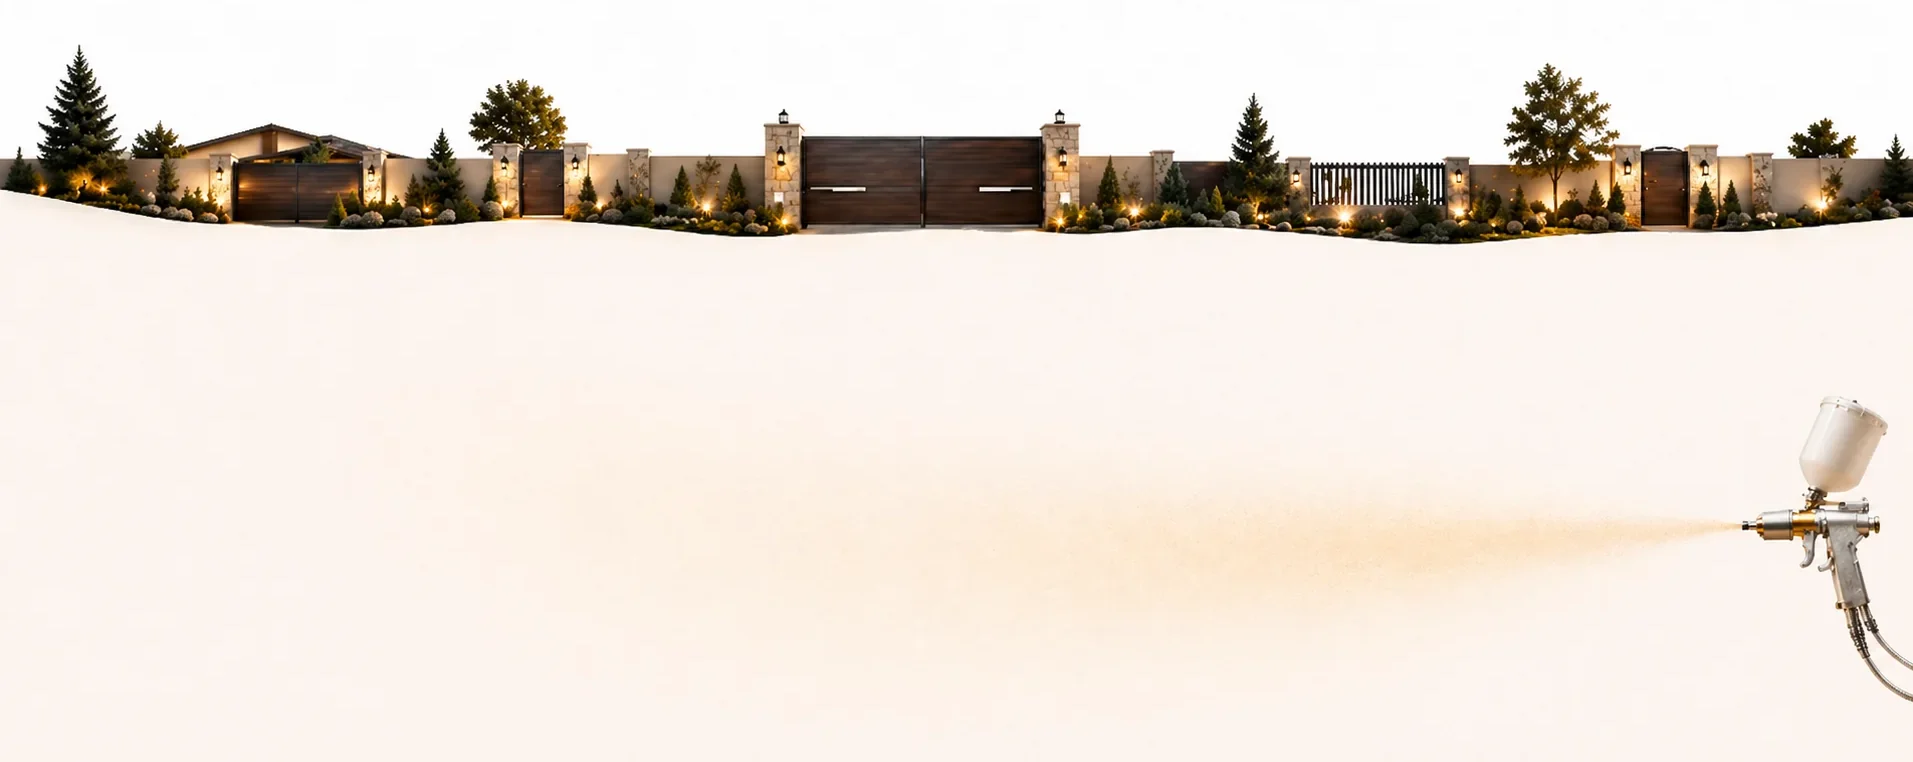
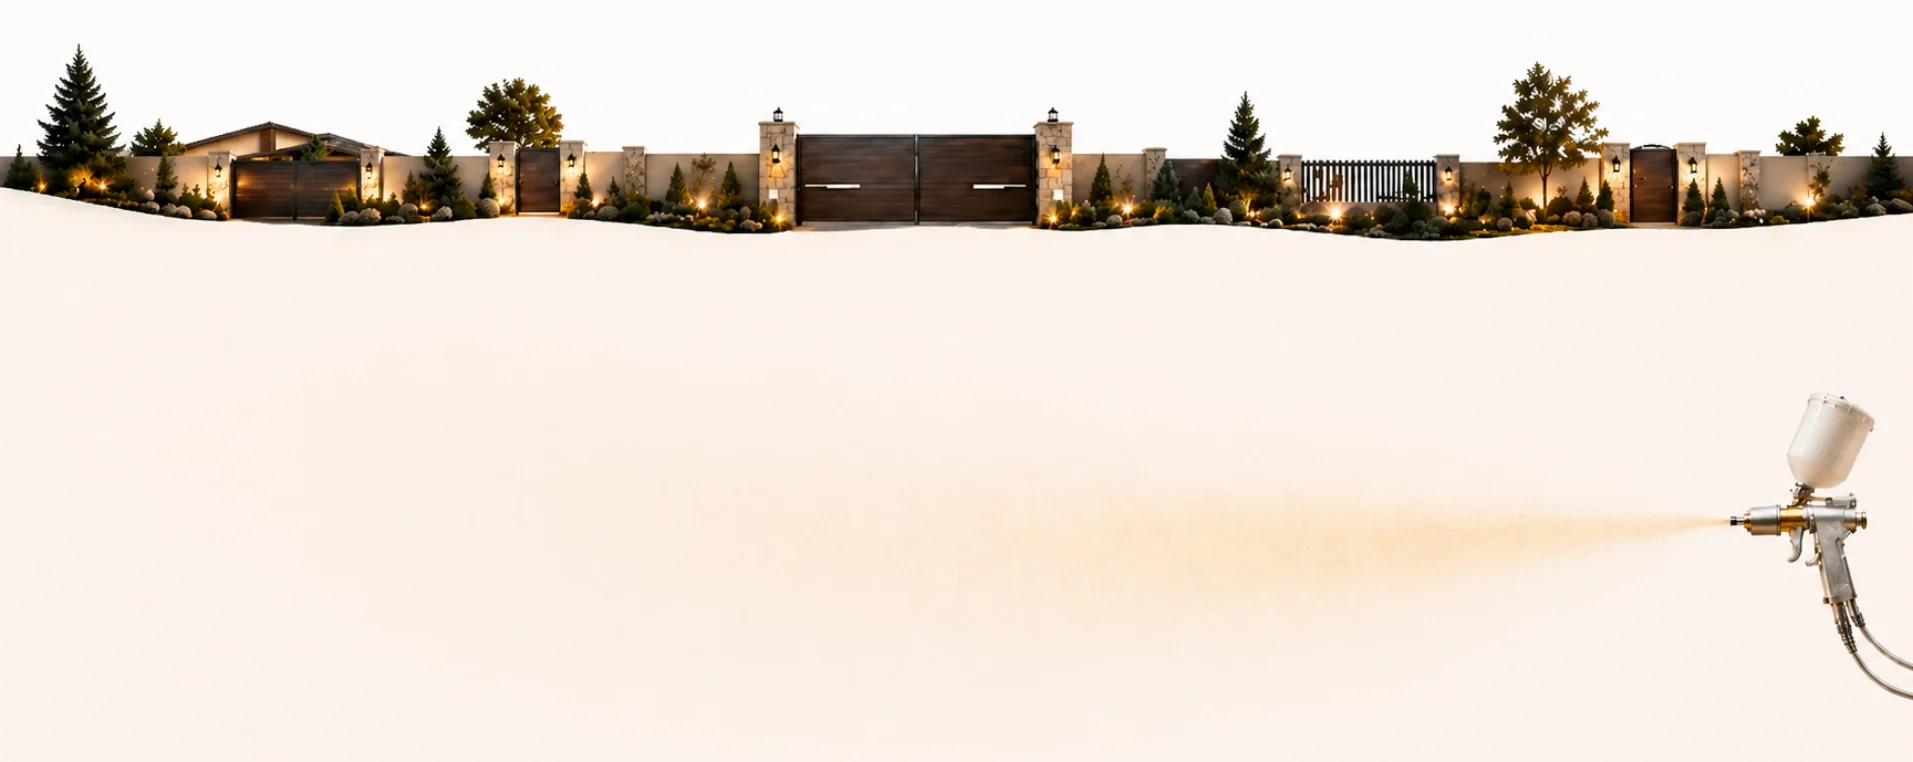
Optimize footer image and add responsive checks

Changed region(s): [[0.0, 0.0604, 1.0, 0.332], [0.8944, 0.5131, 1.0, 0.9357]]

diff --git a/tests/responsive/layout-smoke.spec.js b/tests/responsive/layout-smoke.spec.js
@@ -1,0 +1,112 @@
+const { test, expect } = require('@playwright/test');
+
+const pages = [
+    { name: 'home', path: '/' },
+    { name: 'services', path: '/pages/services.html' },
+    { name: 'powder-coating', path: '/pages/powder-coating.html' },
+    { name: 'gallery', path: '/pages/gallery.html' },
+    { name: 'contacts', path: '/pages/contacts.html' }
+];
+
+function slugifyProjectName(name) {
+    return String(name || 'project')
+        .toLowerCase()
+        .replace(/[^a-z0-9]+/g, '-')
+        .replace(/^-+|-+$/g, '');
+}
+
+async function collectLayoutMetrics(page) {
+    return page.evaluate(() => {
+        const html = document.documentElement;
+        const body = document.body;
+
+        const horizontalOverflow = Math.max(
+            0,
+            Math.max(html.scrollWidth, body ? body.scrollWidth : 0) - window.innerWidth
+        );
+
+        const fixedSelectors = [
+            '.hero-copy h1',
+            '.hero-copy__actions',
+            '.hero-copy__features',
+            '.hero-scene__nav',
+            '.panel-scene__items',
+            '.internal-hero-copy h1',
+            '.internal-hero-copy__lead'
+        ];
+
+        const overflowingSelectors = fixedSelectors.reduce((accumulator, selector) => {
+            const element = document.querySelector(selector);
+            if (!element) return accumulator;
+
+            const style = window.getComputedStyle(element);
+            const horizontalDiff = element.scrollWidth - element.clientWidth;
+            const verticalDiff = element.scrollHeight - element.clientHeight;
+
+            if (
+                horizontalDiff > 2
+                && style.overflowX !== 'visible'
+                && style.whiteSpace !== 'normal'
+            ) {
+                accumulator.push({
+                    selector,
+                    axis: 'x',
+                    diff: horizontalDiff
+                });
+            }
+
+            if (
+                verticalDiff > 6
+                && style.overflowY !== 'visible'
+                && element.clientHeight > 0
+            ) {
+                accumulator.push({
+                    selector,
+                    axis: 'y',
+                    diff: verticalDiff
+                });
+            }
+
+            return accumulator;
+        }, []);
+
+        const heroStage = document.querySelector('.hero-stage');
+        const heroPicture = document.querySelector('.hero-stage__picture');
+
+        let heroBottomGap = null;
+        if (heroStage && heroPicture) {
+            const stageRect = heroStage.getBoundingClientRect();
+            const pictureRect = heroPicture.getBoundingClientRect();
+            heroBottomGap = Math.round(stageRect.bottom - pictureRect.bottom);
+        }
+
+        return {
+            horizontalOverflow,
+            overflowingSelectors,
+            heroBottomGap
+        };
+    });
+}
+
+test.describe('Responsive layout smoke', () => {
+    for (const targetPage of pages) {
+        test(`${targetPage.name} stays stable across key breakpoints`, async ({ page }, testInfo) => {
+            await page.goto(targetPage.path, { waitUntil: 'networkidle' });
+
+            await expect(page.locator('body')).toBeVisible();
+            await page.screenshot({
+                path: testInfo.outputPath(`${slugifyProjectName(testInfo.project.name)}-${targetPage.name}.png`),
+                fullPage: true
+            });
+
+            const metrics = await collectLayoutMetrics(page);
+
+            expect(metrics.horizontalOverflow, `Horizontal overflow detected on ${targetPage.name}`).toBeLessThanOrEqual(2);
+            expect(metrics.overflowingSelectors, `Hidden overflow detected on ${targetPage.name}`).toEqual([]);
+
+            if (targetPage.name === 'home' && metrics.heroBottomGap != null) {
+                expect(Math.abs(metrics.heroBottomGap), 'Hero picture no longer aligns with hero stage bottom').toBeLessThanOrEqual(4);
+            }
+        });
+    }
+});

diff --git a/playwright.config.js b/playwright.config.js
@@ -1,0 +1,62 @@
+const { defineConfig, devices } = require('@playwright/test');
+
+module.exports = defineConfig({
+    testDir: './tests/responsive',
+    timeout: 45_000,
+    fullyParallel: true,
+    reporter: [
+        ['list'],
+        ['html', { open: 'never' }]
+    ],
+    use: {
+        baseURL: 'http://127.0.0.1:4173',
+        trace: 'retain-on-failure',
+        screenshot: 'only-on-failure',
+        video: 'retain-on-failure'
+    },
+    webServer: {
+        command: 'npm start',
+        url: 'http://127.0.0.1:4173/api/health',
+        reuseExistingServer: true,
+        timeout: 120_000
+    },
+    projects: [
+        {
+            name: 'desktop-wide',
+            use: {
+                browserName: 'chromium',
+                ...devices['Desktop Chrome'],
+                viewport: { width: 1440, height: 900 }
+            }
+        },
+        {
+            name: 'desktop-narrow-980',
+            use: {
+                browserName: 'chromium',
+                ...devices['Desktop Chrome'],
+                viewport: { width: 980, height: 740 }
+            }
+        },
+        {
+            name: 'tablet-ipad',
+            use: {
+                browserName: 'chromium',
+                ...devices['iPad Pro 11']
+            }
+        },
+        {
+            name: 'phone-iphone-13',
+            use: {
+                browserName: 'chromium',
+                ...devices['iPhone 13']
+            }
+        },
+        {
+            name: 'phone-landscape',
+            use: {
+                browserName: 'chromium',
+                ...devices['iPhone 13 landscape']
+            }
+        }
+    ]
+});

diff --git a/pages/payment-documents.html b/pages/payment-documents.html
@@ -92,8 +92,8 @@
 <link rel="stylesheet" href="../assets/css/header.css?v=20260430-header-nearsquare-2">
     <link rel="stylesheet" href="../assets/css/hero-inner.css?v=20260430-hero-inner-nearsquare-2">
 <link rel="stylesheet" href="../assets/css/internal-pages.css?v=20260430-internal-neutralfallback-1">
-    <link rel="preload" as="style" href="../assets/css/footer.css?v=20260430-footer-desktopsite-gap-1" onload="this.onload=null;this.rel='stylesheet'">
-    <noscript><link rel="stylesheet" href="../assets/css/footer.css?v=20260430-footer-desktopsite-gap-1"></noscript>
+    <link rel="preload" as="style" href="../assets/css/footer.css?v=20260506-footer-photo-2" onload="this.onload=null;this.rel='stylesheet'">
+    <noscript><link rel="stylesheet" href="../assets/css/footer.css?v=20260506-footer-photo-2"></noscript>
 <link rel="preload" as="style" href="../assets/css/fontawesome.css?v=20260421-fa-4" onload="this.onload=null;this.rel='stylesheet'">
 <noscript><link rel="stylesheet" href="../assets/css/fontawesome.css?v=20260421-fa-4"></noscript>
     <link rel="stylesheet" href="../assets/css/pages/payment-documents.css?v=20260426-payment-theme-51">

diff --git a/pages/powder-coating.html b/pages/powder-coating.html
@@ -94,8 +94,8 @@
 <link rel="stylesheet" href="../assets/css/header.css?v=20260430-header-nearsquare-2">
     <link rel="stylesheet" href="../assets/css/hero-inner.css?v=20260430-hero-inner-nearsquare-2">
 <link rel="stylesheet" href="../assets/css/internal-pages.css?v=20260430-internal-neutralfallback-1">
-    <link rel="preload" as="style" href="../assets/css/footer.css?v=20260430-footer-desktopsite-gap-1" onload="this.onload=null;this.rel='stylesheet'">
-    <noscript><link rel="stylesheet" href="../assets/css/footer.css?v=20260430-footer-desktopsite-gap-1"></noscript>
+    <link rel="preload" as="style" href="../assets/css/footer.css?v=20260506-footer-photo-2" onload="this.onload=null;this.rel='stylesheet'">
+    <noscript><link rel="stylesheet" href="../assets/css/footer.css?v=20260506-footer-photo-2"></noscript>
 <link rel="preload" as="style" href="../assets/css/fontawesome.css?v=20260421-fa-4" onload="this.onload=null;this.rel='stylesheet'">
 <noscript><link rel="stylesheet" href="../assets/css/fontawesome.css?v=20260421-fa-4"></noscript>
     <link rel="stylesheet" href="../assets/css/pages/process-services.css?v=20260426-process-pages-134">

diff --git a/pages/sandblasting.html b/pages/sandblasting.html
@@ -94,8 +94,8 @@
 <link rel="stylesheet" href="../assets/css/header.css?v=20260430-header-nearsquare-2">
     <link rel="stylesheet" href="../assets/css/hero-inner.css?v=20260430-hero-inner-nearsquare-2">
 <link rel="stylesheet" href="../assets/css/internal-pages.css?v=20260430-internal-neutralfallback-1">
-    <link rel="preload" as="style" href="../assets/css/footer.css?v=20260430-footer-desktopsite-gap-1" onload="this.onload=null;this.rel='stylesheet'">
-    <noscript><link rel="stylesheet" href="../assets/css/footer.css?v=20260430-footer-desktopsite-gap-1"></noscript>
+    <link rel="preload" as="style" href="../assets/css/footer.css?v=20260506-footer-photo-2" onload="this.onload=null;this.rel='stylesheet'">
+    <noscript><link rel="stylesheet" href="../assets/css/footer.css?v=20260506-footer-photo-2"></noscript>
 <link rel="preload" as="style" href="../assets/css/fontawesome.css?v=20260421-fa-4" onload="this.onload=null;this.rel='stylesheet'">
 <noscript><link rel="stylesheet" href="../assets/css/fontawesome.css?v=20260421-fa-4"></noscript>
     <link rel="stylesheet" href="../assets/css/pages/process-services.css?v=20260426-process-pages-134">

diff --git a/pages/automation-alutech-am5000kit.html b/pages/automation-alutech-am5000kit.html
@@ -59,8 +59,8 @@
 <link rel="stylesheet" href="../assets/css/header.css?v=20260430-header-nearsquare-2">
 <link rel="stylesheet" href="../assets/css/hero-inner.css?v=20260430-hero-inner-nearsquare-2">
 <link rel="stylesheet" href="../assets/css/internal-pages.css?v=20260430-internal-neutralfallback-1">
-    <link rel="preload" as="style" href="../assets/css/footer.css?v=20260430-footer-desktopsite-gap-1" onload="this.onload=null;this.rel='stylesheet'">
-    <noscript><link rel="stylesheet" href="../assets/css/footer.css?v=20260430-footer-desktopsite-gap-1"></noscript>
+    <link rel="preload" as="style" href="../assets/css/footer.css?v=20260506-footer-photo-2" onload="this.onload=null;this.rel='stylesheet'">
+    <noscript><link rel="stylesheet" href="../assets/css/footer.css?v=20260506-footer-photo-2"></noscript>
 <link rel="preload" as="style" href="../assets/css/fontawesome.css?v=20260421-fa-4" onload="this.onload=null;this.rel='stylesheet'">
 <noscript><link rel="stylesheet" href="../assets/css/fontawesome.css?v=20260421-fa-4"></noscript>
 <link rel="stylesheet" href="../assets/css/pages/automation-product.css?v=20260427-automation-theme-25">

diff --git a/pages/automation-alutech-at-4n.html b/pages/automation-alutech-at-4n.html
@@ -59,8 +59,8 @@
 <link rel="stylesheet" href="../assets/css/header.css?v=20260430-header-nearsquare-2">
 <link rel="stylesheet" href="../assets/css/hero-inner.css?v=20260430-hero-inner-nearsquare-2">
 <link rel="stylesheet" href="../assets/css/internal-pages.css?v=20260430-internal-neutralfallback-1">
-    <link rel="preload" as="style" href="../assets/css/footer.css?v=20260430-footer-desktopsite-gap-1" onload="this.onload=null;this.rel='stylesheet'">
-    <noscript><link rel="stylesheet" href="../assets/css/footer.css?v=20260430-footer-desktopsite-gap-1"></noscript>
+    <link rel="preload" as="style" href="../assets/css/footer.css?v=20260506-footer-photo-2" onload="this.onload=null;this.rel='stylesheet'">
+    <noscript><link rel="stylesheet" href="../assets/css/footer.css?v=20260506-footer-photo-2"></noscript>
 <link rel="preload" as="style" href="../assets/css/fontawesome.css?v=20260421-fa-4" onload="this.onload=null;this.rel='stylesheet'">
 <noscript><link rel="stylesheet" href="../assets/css/fontawesome.css?v=20260421-fa-4"></noscript>
 <link rel="stylesheet" href="../assets/css/pages/automation-product.css?v=20260427-automation-theme-25">

diff --git a/pages/automation-alutech-lm-l.html b/pages/automation-alutech-lm-l.html
@@ -59,8 +59,8 @@
 <link rel="stylesheet" href="../assets/css/header.css?v=20260430-header-nearsquare-2">
 <link rel="stylesheet" href="../assets/css/hero-inner.css?v=20260430-hero-inner-nearsquare-2">
 <link rel="stylesheet" href="../assets/css/internal-pages.css?v=20260430-internal-neutralfallback-1">
-    <link rel="preload" as="style" href="../assets/css/footer.css?v=20260430-footer-desktopsite-gap-1" onload="this.onload=null;this.rel='stylesheet'">
-    <noscript><link rel="stylesheet" href="../assets/css/footer.css?v=20260430-footer-desktopsite-gap-1"></noscript>
+    <link rel="preload" as="style" href="../assets/css/footer.css?v=20260506-footer-photo-2" onload="this.onload=null;this.rel='stylesheet'">
+    <noscript><link rel="stylesheet" href="../assets/css/footer.css?v=20260506-footer-photo-2"></noscript>
 <link rel="preload" as="style" href="../assets/css/fontawesome.css?v=20260421-fa-4" onload="this.onload=null;this.rel='stylesheet'">
 <noscript><link rel="stylesheet" href="../assets/css/fontawesome.css?v=20260421-fa-4"></noscript>
 <link rel="stylesheet" href="../assets/css/pages/automation-product.css?v=20260427-automation-theme-25">

diff --git a/pages/automation-alutech-rto1000.html b/pages/automation-alutech-rto1000.html
@@ -59,8 +59,8 @@
 <link rel="stylesheet" href="../assets/css/header.css?v=20260430-header-nearsquare-2">
 <link rel="stylesheet" href="../assets/css/hero-inner.css?v=20260430-hero-inner-nearsquare-2">
 <link rel="stylesheet" href="../assets/css/internal-pages.css?v=20260430-internal-neutralfallback-1">
-    <link rel="preload" as="style" href="../assets/css/footer.css?v=20260430-footer-desktopsite-gap-1" onload="this.onload=null;this.rel='stylesheet'">
-    <noscript><link rel="stylesheet" href="../assets/css/footer.css?v=20260430-footer-desktopsite-gap-1"></noscript>
+    <link rel="preload" as="style" href="../assets/css/footer.css?v=20260506-footer-photo-2" onload="this.onload=null;this.rel='stylesheet'">
+    <noscript><link rel="stylesheet" href="../assets/css/footer.css?v=20260506-footer-photo-2"></noscript>
 <link rel="preload" as="style" href="../assets/css/fontawesome.css?v=20260421-fa-4" onload="this.onload=null;this.rel='stylesheet'">
 <noscript><link rel="stylesheet" href="../assets/css/fontawesome.css?v=20260421-fa-4"></noscript>
 <link rel="stylesheet" href="../assets/css/pages/automation-product.css?v=20260427-automation-theme-25">

diff --git a/pages/automation-alutech-rto500.html b/pages/automation-alutech-rto500.html
@@ -59,8 +59,8 @@
 <link rel="stylesheet" href="../assets/css/header.css?v=20260430-header-nearsquare-2">
 <link rel="stylesheet" href="../assets/css/hero-inner.css?v=20260430-hero-inner-nearsquare-2">
 <link rel="stylesheet" href="../assets/css/internal-pages.css?v=20260430-internal-neutralfallback-1">
-    <link rel="preload" as="style" href="../assets/css/footer.css?v=20260430-footer-desktopsite-gap-1" onload="this.onload=null;this.rel='stylesheet'">
-    <noscript><link rel="stylesheet" href="../assets/css/footer.css?v=20260430-footer-desktopsite-gap-1"></noscript>
+    <link rel="preload" as="style" href="../assets/css/footer.css?v=20260506-footer-photo-2" onload="this.onload=null;this.rel='stylesheet'">
+    <noscript><link rel="stylesheet" href="../assets/css/footer.css?v=20260506-footer-photo-2"></noscript>
 <link rel="preload" as="style" href="../assets/css/fontawesome.css?v=20260421-fa-4" onload="this.onload=null;this.rel='stylesheet'">
 <noscript><link rel="stylesheet" href="../assets/css/fontawesome.css?v=20260421-fa-4"></noscript>
 <link rel="stylesheet" href="../assets/css/pages/automation-product.css?v=20260427-automation-theme-25">

diff --git a/pages/automation-alutech-sl-u.html b/pages/automation-alutech-sl-u.html
@@ -59,8 +59,8 @@
 <link rel="stylesheet" href="../assets/css/header.css?v=20260430-header-nearsquare-2">
 <link rel="stylesheet" href="../assets/css/hero-inner.css?v=20260430-hero-inner-nearsquare-2">
 <link rel="stylesheet" href="../assets/css/internal-pages.css?v=20260430-internal-neutralfallback-1">
-    <link rel="preload" as="style" href="../assets/css/footer.css?v=20260430-footer-desktopsite-gap-1" onload="this.onload=null;this.rel='stylesheet'">
-    <noscript><link rel="stylesheet" href="../assets/css/footer.css?v=20260430-footer-desktopsite-gap-1"></noscript>
+    <link rel="preload" as="style" href="../assets/css/footer.css?v=20260506-footer-photo-2" onload="this.onload=null;this.rel='stylesheet'">
+    <noscript><link rel="stylesheet" href="../assets/css/footer.css?v=20260506-footer-photo-2"></noscript>
 <link rel="preload" as="style" href="../assets/css/fontawesome.css?v=20260421-fa-4" onload="this.onload=null;this.rel='stylesheet'">
 <noscript><link rel="stylesheet" href="../assets/css/fontawesome.css?v=20260421-fa-4"></noscript>
 <link rel="stylesheet" href="../assets/css/pages/automation-product.css?v=20260427-automation-theme-25">

diff --git a/pages/automation-ati3000a.html b/pages/automation-ati3000a.html
@@ -55,8 +55,8 @@
 <link rel="stylesheet" href="../assets/css/header.css?v=20260430-header-nearsquare-2">
 <link rel="stylesheet" href="../assets/css/hero-inner.css?v=20260430-hero-inner-nearsquare-2">
 <link rel="stylesheet" href="../assets/css/internal-pages.css?v=20260430-internal-neutralfallback-1">
-    <link rel="preload" as="style" href="../assets/css/footer.css?v=20260430-footer-desktopsite-gap-1" onload="this.onload=null;this.rel='stylesheet'">
-    <noscript><link rel="stylesheet" href="../assets/css/footer.css?v=20260430-footer-desktopsite-gap-1"></noscript>
+    <link rel="preload" as="style" href="../assets/css/footer.css?v=20260506-footer-photo-2" onload="this.onload=null;this.rel='stylesheet'">
+    <noscript><link rel="stylesheet" href="../assets/css/footer.css?v=20260506-footer-photo-2"></noscript>
 <link rel="preload" as="style" href="../assets/css/fontawesome.css?v=20260421-fa-4" onload="this.onload=null;this.rel='stylesheet'">
 <noscript><link rel="stylesheet" href="../assets/css/fontawesome.css?v=20260421-fa-4"></noscript>
 <link rel="stylesheet" href="../assets/css/pages/automation-product.css?v=20260427-automation-theme-25">
